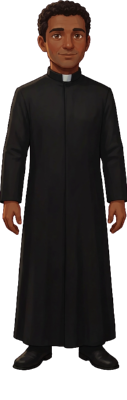
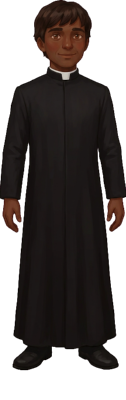
Leader looks: renders in all six skin tones
Fifty more renders, one per (look, figure, tone), each referenced only on that
tone's own starter so the face is the leader's rather than the sand render's.
The first pass referenced the sand outfit too and 27 of 49 came back with the
sand face; every render was measured against its starter's face before this
commit.

Claude-Session: https://claude.ai/code/session_01MU3iU7KxrfWHCpqujjYFx9

diff --git a/src/data/generatedArt.ts b/src/data/generatedArt.ts
@@ -160,17 +160,65 @@ export const GENERATED_ART: Record<string, string> = {
   'lamplighter': '/skins/lamplighter.png',
   'lantern': '/skins/lantern.png',
   'leader_classic-clergy_fem': '/skins/leader_classic-clergy_fem.png',
+  'leader_classic-clergy_fem_amber': '/skins/leader_classic-clergy_fem_amber.png',
+  'leader_classic-clergy_fem_bronze': '/skins/leader_classic-clergy_fem_bronze.png',
+  'leader_classic-clergy_fem_ebony': '/skins/leader_classic-clergy_fem_ebony.png',
+  'leader_classic-clergy_fem_porcelain': '/skins/leader_classic-clergy_fem_porcelain.png',
+  'leader_classic-clergy_fem_umber': '/skins/leader_classic-clergy_fem_umber.png',
   'leader_classic-clergy_masc': '/skins/leader_classic-clergy_masc.png',
+  'leader_classic-clergy_masc_amber': '/skins/leader_classic-clergy_masc_amber.png',
+  'leader_classic-clergy_masc_bronze': '/skins/leader_classic-clergy_masc_bronze.png',
   'leader_classic-clergy_masc_ebony': '/skins/leader_classic-clergy_masc_ebony.png',
   'leader_classic-clergy_masc_porcelain': '/skins/leader_classic-clergy_masc_porcelain.png',
+  'leader_classic-clergy_masc_umber': '/skins/leader_classic-clergy_masc_umber.png',
   'leader_contemporary_fem': '/skins/leader_contemporary_fem.png',
+  'leader_contemporary_fem_amber': '/skins/leader_contemporary_fem_amber.png',
+  'leader_contemporary_fem_bronze': '/skins/leader_contemporary_fem_bronze.png',
+  'leader_contemporary_fem_ebony': '/skins/leader_contemporary_fem_ebony.png',
+  'leader_contemporary_fem_porcelain': '/skins/leader_contemporary_fem_porcelain.png',
+  'leader_contemporary_fem_umber': '/skins/leader_contemporary_fem_umber.png',
   'leader_contemporary_masc': '/skins/leader_contemporary_masc.png',
+  'leader_contemporary_masc_amber': '/skins/leader_contemporary_masc_amber.png',
+  'leader_contemporary_masc_bronze': '/skins/leader_contemporary_masc_bronze.png',
+  'leader_contemporary_masc_ebony': '/skins/leader_contemporary_masc_ebony.png',
+  'leader_contemporary_masc_porcelain': '/skins/leader_contemporary_masc_porcelain.png',
+  'leader_contemporary_masc_umber': '/skins/leader_contemporary_masc_umber.png',
   'leader_liturgical-vestments_fem': '/skins/leader_liturgical-vestments_fem.png',
+  'leader_liturgical-vestments_fem_amber': '/skins/leader_liturgical-vestments_fem_amber.png',
+  'leader_liturgical-vestments_fem_bronze': '/skins/leader_liturgical-vestments_fem_bronze.png',
+  'leader_liturgical-vestments_fem_ebony': '/skins/leader_liturgical-vestments_fem_ebony.png',
+  'leader_liturgical-vestments_fem_porcelain': '/skins/leader_liturgical-vestments_fem_porcelain.png',
+  'leader_liturgical-vestments_fem_umber': '/skins/leader_liturgical-vestments_fem_umber.png',
   'leader_liturgical-vestments_masc': '/skins/leader_liturgical-vestments_masc.png',
+  'leader_liturgical-vestments_masc_amber': '/skins/leader_liturgical-vestments_masc_amber.png',
+  'leader_liturgical-vestments_masc_bronze': '/skins/leader_liturgical-vestments_masc_bronze.png',
+  'leader_liturgical-vestments_masc_ebony': '/skins/leader_liturgical-vestments_masc_ebony.png',
+  'leader_liturgical-vestments_masc_porcelain': '/skins/leader_liturgical-vestments_masc_porcelain.png',
+  'leader_liturgical-vestments_masc_umber': '/skins/leader_liturgical-vestments_masc_umber.png',
   'leader_professional-suit_fem': '/skins/leader_professional-suit_fem.png',
+  'leader_professional-suit_fem_amber': '/skins/leader_professional-suit_fem_amber.png',
+  'leader_professional-suit_fem_bronze': '/skins/leader_professional-suit_fem_bronze.png',
+  'leader_professional-suit_fem_ebony': '/skins/leader_professional-suit_fem_ebony.png',
+  'leader_professional-suit_fem_porcelain': '/skins/leader_professional-suit_fem_porcelain.png',
+  'leader_professional-suit_fem_umber': '/skins/leader_professional-suit_fem_umber.png',
   'leader_professional-suit_masc': '/skins/leader_professional-suit_masc.png',
+  'leader_professional-suit_masc_amber': '/skins/leader_professional-suit_masc_amber.png',
+  'leader_professional-suit_masc_bronze': '/skins/leader_professional-suit_masc_bronze.png',
+  'leader_professional-suit_masc_ebony': '/skins/leader_professional-suit_masc_ebony.png',
+  'leader_professional-suit_masc_porcelain': '/skins/leader_professional-suit_masc_porcelain.png',
+  'leader_professional-suit_masc_umber': '/skins/leader_professional-suit_masc_umber.png',
   'leader_robe-stole_fem': '/skins/leader_robe-stole_fem.png',
+  'leader_robe-stole_fem_amber': '/skins/leader_robe-stole_fem_amber.png',
+  'leader_robe-stole_fem_bronze': '/skins/leader_robe-stole_fem_bronze.png',
+  'leader_robe-stole_fem_ebony': '/skins/leader_robe-stole_fem_ebony.png',
+  'leader_robe-stole_fem_porcelain': '/skins/leader_robe-stole_fem_porcelain.png',
+  'leader_robe-stole_fem_umber': '/skins/leader_robe-stole_fem_umber.png',
   'leader_robe-stole_masc': '/skins/leader_robe-stole_masc.png',
+  'leader_robe-stole_masc_amber': '/skins/leader_robe-stole_masc_amber.png',
+  'leader_robe-stole_masc_bronze': '/skins/leader_robe-stole_masc_bronze.png',
+  'leader_robe-stole_masc_ebony': '/skins/leader_robe-stole_masc_ebony.png',
+  'leader_robe-stole_masc_porcelain': '/skins/leader_robe-stole_masc_porcelain.png',
+  'leader_robe-stole_masc_umber': '/skins/leader_robe-stole_masc_umber.png',
   'librarian': '/skins/librarian.png',
   'luke': '/skins/luke.png',
   'luke_asking': '/skins/luke_asking.png',
